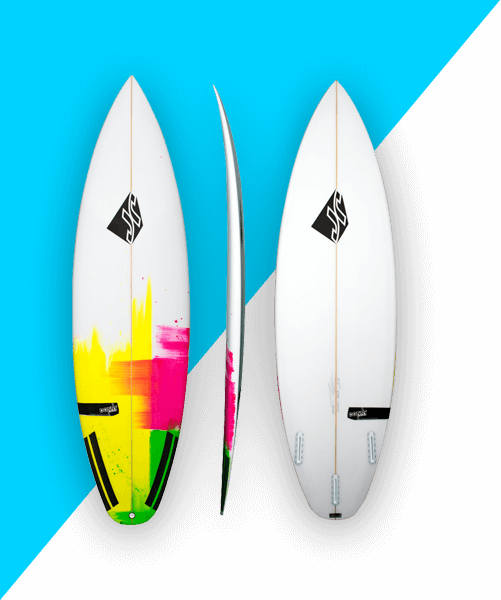
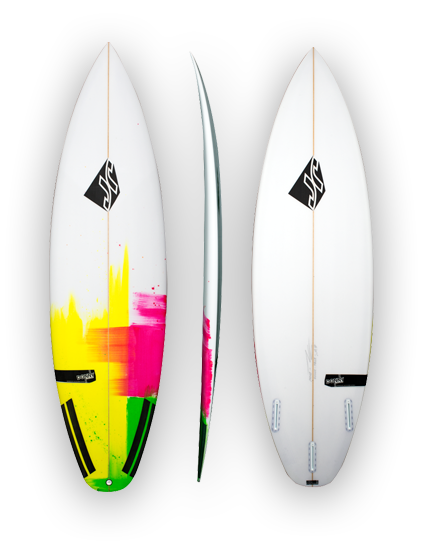
The surfboard buying section has finished.

diff --git a/styles.css b/styles.css
@@ -1,7 +1,7 @@
 body {
 	margin: 0;
 	padding: 41px 375px 41px 375px;
-	background-image: url("images/header-background.jpg");
+	background-image: url("images/header-background.jpg"), url("images/header-background.jpg");
 	background-repeat: no-repeat;
 }
 
@@ -67,8 +67,184 @@ a {
 }
 
 .surfboards {
+	position: relative;
 	height: 600px;
 	width: 1030px;
 	background-color: #fff;
+	background-image: linear-gradient(130deg, #00d2ff 33%, transparent 33%);
 	box-shadow: 0px -2px 44px 5px rgba(0,0,0,0.32);
+}
+
+.surfboards > img {
+	padding-top: 35px;
+	padding-left: 28px;
+}
+
+.surfboard-previews {
+	padding: 0;
+	margin: 0;
+	list-style: none;
+	position: absolute;
+	top: 157px;
+	left: 470px;
+}
+
+.surfboard-previews li {
+	margin-bottom: 3px;
+}
+
+.surfboard-previews li:last-child {
+	margin-bottom: 0;
+}
+
+.surfboard-preview {
+	border: 1px solid #ccc;
+}
+
+.surfboard-preview.selected, .surfboard-preview:hover{
+	outline: 2px solid #00b0ff;
+	outline-offset: -2px;
+}
+
+.surfboard-title {
+	font: bold 20px/26px "Montserrat", arial;
+	width: 335px;
+	height: 50px;
+	position: absolute;
+	top: 45px;
+	left: 595px;
+}
+
+.rating {
+	position: absolute;
+	top: 100px;
+	left: 595px;
+}
+
+.stars {
+	display: inline-block;
+}
+
+.rating-total {
+	font: bold 12px "Montserrat", arial;
+	color: #787878;
+	display: inline-block;
+	position: relative;
+	top: -2px;
+}
+
+.rating-total:before {
+	content: "(";
+}
+
+.rating-total:after {
+	content: ")";
+}
+
+.surfboard-scroll {
+	position: absolute;
+    top: 50px;
+    right: -38px;
+	width: 76px;
+}
+
+svg.arrow {
+	background-color: #f2d800;
+	width: 38px;
+	height: 38px;
+	fill: none;
+	stroke: #fff;
+	stroke-width: 2;
+	float: left;
+}
+
+svg.arrow:hover {
+	stroke: #000;
+}
+
+.page-counter {
+	position: absolute;
+	width: 58px;
+	height: 38px;
+	top: 88px;
+	right: 0;
+	color: #fff;
+	background-color: #000;
+	text-align: center;
+	font: 14px/38px "Montserrat", arial;
+}
+
+.surfboard-tabs {
+	position: absolute;
+	top: 155px;
+	left: 595px;
+	height: 25px;
+	margin: 0;
+	padding: 0;
+	list-style: none;
+	border-bottom: 1px solid #a0a0a0;
+}
+
+.surfboard-tabs li {
+	display: inline;
+	text-transform: uppercase;
+	font: bold 14px/25px "Raleway", arial;
+	margin-right: 30px;
+	padding-bottom: 3px;
+	color: #a0a0a0;
+}
+
+.surfboard-tabs li.selected {
+	border-bottom: 3px solid #00b0ff;
+	color: #000;
+}
+
+.surfboard-tab-content {
+	position: absolute;
+	left: 595px;
+	top: 205px;
+	width: 400px;
+	height: 170px;
+	font: 16px/24px "Raleway", arial;
+	color: #787878;
+}
+
+.surfboard-price {
+	position: absolute;
+	left: 595px;
+	top: 405px;
+	width: 120px;
+	height: 45px;
+	margin-right: 5px;
+	color: #000;
+	font: bold 24px/45px "Montserrat", arial;
+}
+
+.surfboard-buy {
+	position: absolute;
+	left: 720px;
+	top: 405px;
+	width: 140px;
+	height: 45px;
+	background-color: #00b0ff;
+	color: #fff;
+	font: bold 14px/45px "Montserrat", arial;
+	text-transform: uppercase;
+	text-align: center;
+}
+
+.surfboard-buy:hover {
+	color: #000;
+}
+
+.surfboard-all {
+	position: absolute;
+	bottom: 70px;
+	left: 595px;
+	color: #00b0ff;
+	height: 22px;
+	width: 125px;
+	font: 16px/22px "Montserrat", arial;
+	border-bottom: 2px solid #00b0ff;
+	padding-bottom: 3px;
 }

diff --git a/index.html b/index.html
@@ -29,11 +29,48 @@
 		</span>
 	</div>
 	<div class="content">
-		<div class="slogan">Ride every wave as if its your last
+		<div class="slogan">Ride every wave as if it's your last
 			<div class="subslogan">We love the motion of the ocean</div>
 		</div>
 		<div class="surfboards">
-			<img src="images/Surfboards.png" alt="Surfboards">
+			<img src="images/Surfboards.png" alt="Surfboard">
+			<ul class="surfboard-previews">
+				<li><img class="surfboard-preview selected" src="images/Surfboards1.jpg" alt="Surfboard1"></li>
+				<li><img class="surfboard-preview" src="images/Surfboards2.jpg" alt="Surfboard2"></li>
+				<li><img class="surfboard-preview" src="images/Surfboards3.jpg" alt="Surfboard3"></li>
+				<li><img class="surfboard-preview" src="images/Surfboards4.jpg" alt="Surfboard4"></li>
+			</ul>
+			<div class="surfboard-title">JR Surfoards The Donny Stoker Yellow/Green Rail Fade</div>
+			<div class="rating">
+				<div class="stars">
+					<img src="images/Star-on.png" alt="1 star">
+					<img src="images/Star-on.png" alt="2 stars">
+					<img src="images/Star-on.png" alt="3 stars">
+					<img src="images/Star-on.png" alt="4 stars">
+					<img src="images/Star-off.png" alt="5 stars">
+				</div>
+				<div class="rating-total">52</div>
+			</div>
+			<div class="surfboard-scroll">
+					<svg class="arrow">
+						<polyline points="18,25 11,19 18,13"/>
+						<line x1="11" y1="19" x2="27" y2="19"/>
+					</svg>
+					<svg class="arrow">
+						<polyline points="20,25 27,19 20,13"/>
+						<line x1="11" y1="19" x2="27" y2="19"/>
+					</svg>
+			</div>
+			<div class="page-counter">05/25</div>
+			<ul class="surfboard-tabs">
+				<li class="selected">Description</li>
+				<li>Features</li>
+				<li>Dimensions</li>
+			</ul>
+			<div class="surfboard-tab-content">Easy to ride, care free surfing craft that's fun for everyone, paddles well, super fast down the line and great for any level of surfing depending on who rides it. The Donny Stoker, a rework on design from stokesys first ever pro model. A super easy to surf and fun board. The Donny Stoker is a board for total freesurfing expression.</div>
+			<div class="surfboard-price">$499.99</div>
+			<div class="surfboard-buy">Buy now</div>
+			<div class="surfboard-all">View all boards</div>
 		</div>
 	</div>
 	<div class="footer"></div>
